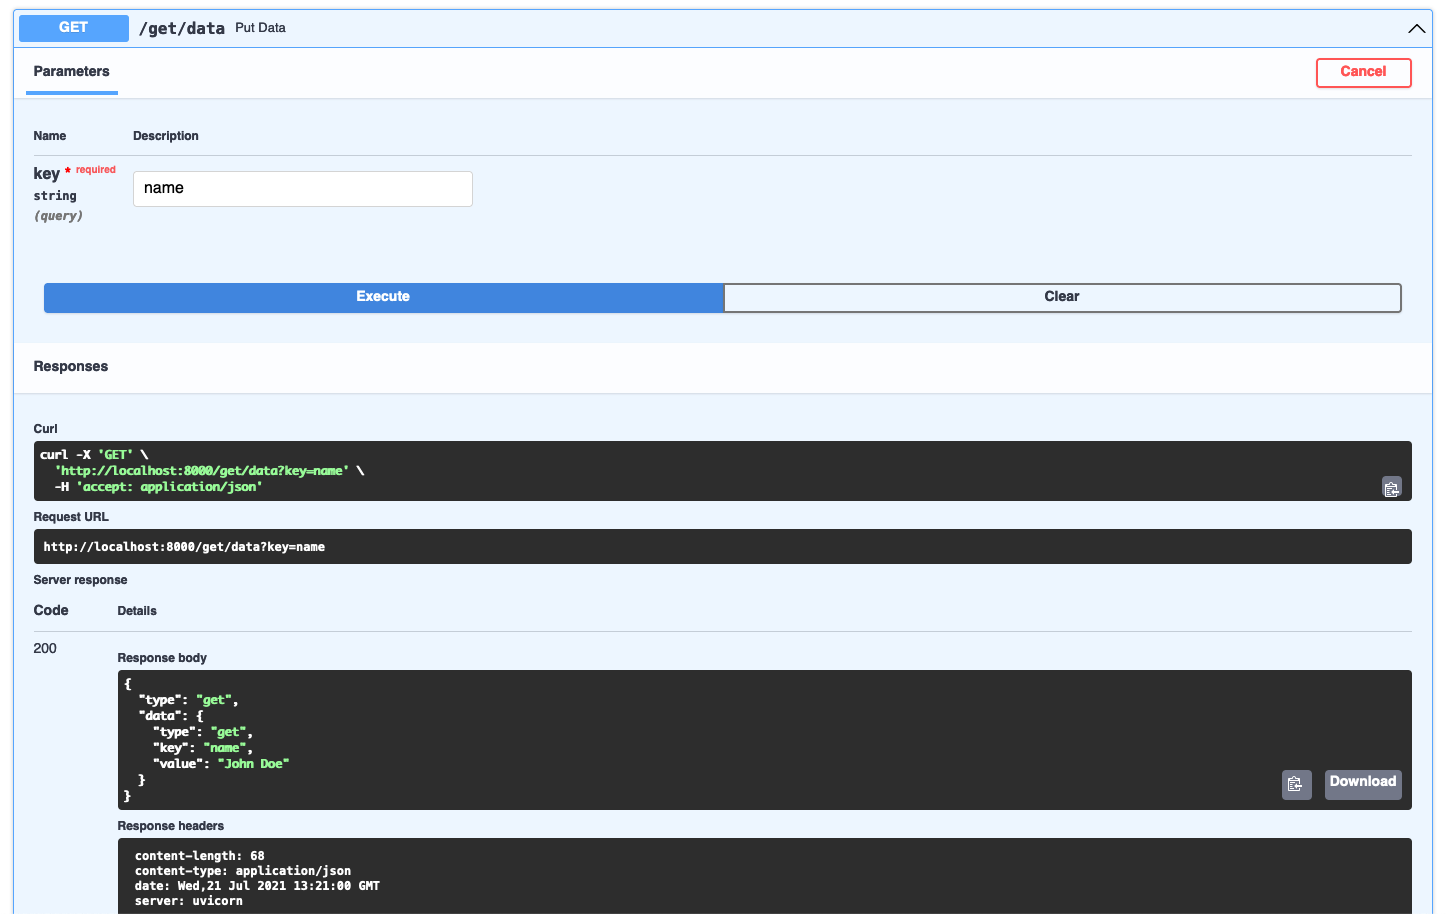
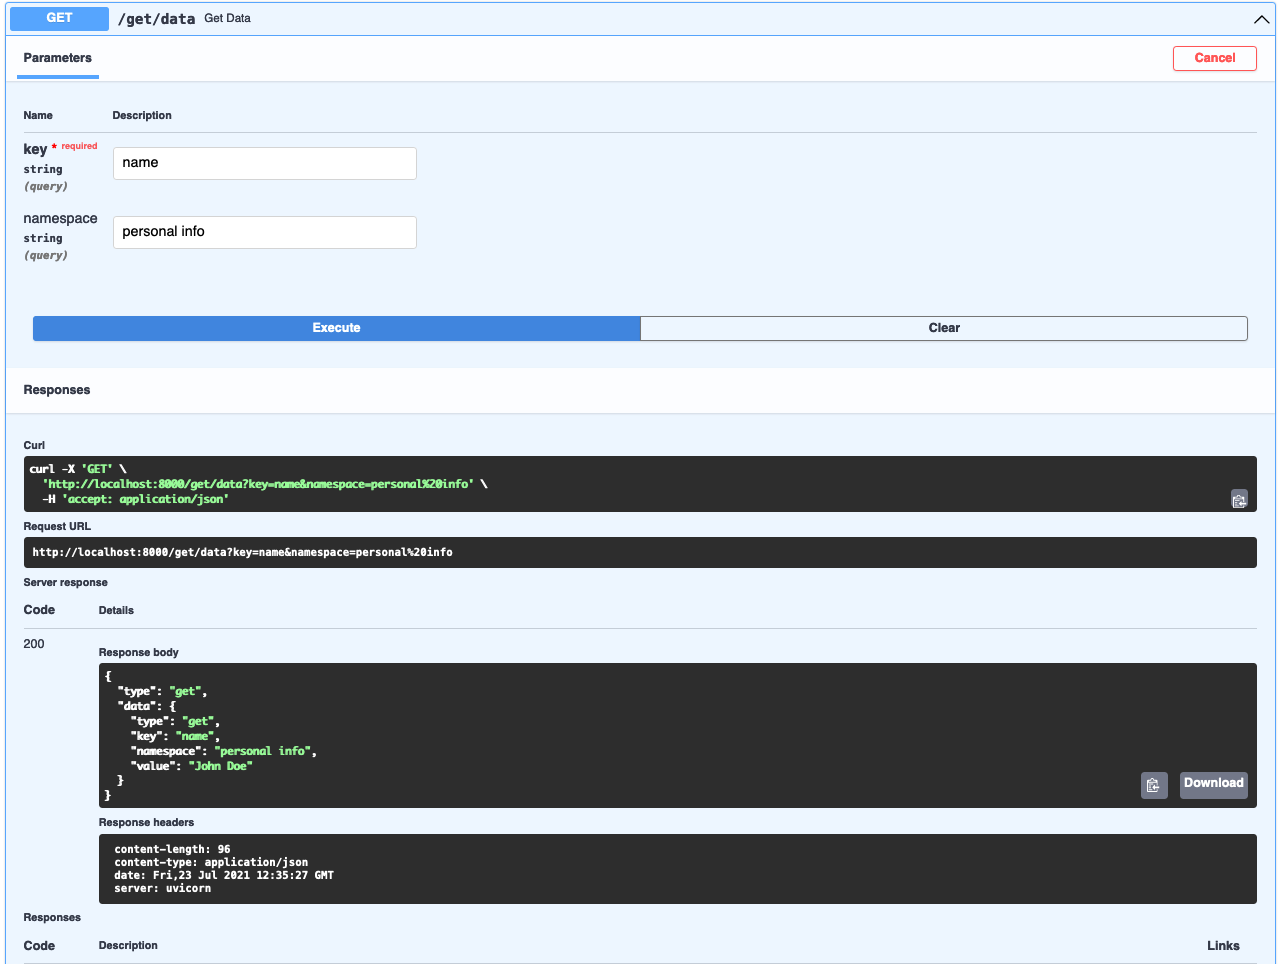
namespace added to raftnode

Changed region(s): [[0.0, 0.3063, 0.9992, 1.0], [0.0, 0.0, 0.9992, 0.2757], [0.0, 0.7046, 0.0312, 0.7352]]

diff --git a/raftnode/store.py b/raftnode/store.py
@@ -7,11 +7,11 @@ from raftnode.datastore.memory import MemoryStore
 
 class Store:
 
-    def __init__(self, store_type: str = 'memory', database: str = 'default.db', data_dir: str = 'data'):
+    def __init__(self, store_type: str = 'memory', data_dir: str = 'data'):
         self.commit_id = 0
         self.log = list()
         self.staged = None
-        self.db = self.__get_database(store_type, database=database, data_dir=data_dir)
+        self.db = self.__get_database(store_type, data_dir=data_dir)
         self.__lock = Lock()
         self.__data_dir = getenv('DATA_DIR', './data')
         self.__log_file = getenv('LOG_FILENAME', 'append.log')
@@ -28,7 +28,7 @@ class Store:
             from raftnode.datastore.rocks import RockStore
             database = kwargs.get('database', None)
             data_dir = kwargs.get('data_dir', None)
-            db = RockStore(database=database, data_dir=data_dir)
+            db = RockStore(data_dir=data_dir)
         else:
             db = MemoryStore()
         return db
@@ -45,9 +45,10 @@ class Store:
         if action == 'log':
             self.staged = payload
         elif action == 'commit':
+            namespace = payload.get('namespace', 'default')
             if not self.staged:
                 self.staged = payload
-            self.commit()
+            self.commit(namespace)
         return
 
     def put(self, term: int, payload: dict, transport, majority: int) -> bool:
@@ -69,6 +70,7 @@ class Store:
         :param majority: how many nodes constitute the majority
         :type majority: int
         '''
+        namespace = payload.get('namespace', 'default')
         with self.__lock:
             self.staged = payload
             waited = 0
@@ -84,8 +86,8 @@ class Store:
                 log_message, transport, log_confirmations,)).start()
 
             while sum(log_confirmations) + 1 < majority:
-                waited += 0.0005
-                time.sleep(0.0005)
+                waited += 0.05
+                time.sleep(0.05)
                 if waited > cfg.MAX_LOG_WAIT / 1000:
                     logger.info(
                         f"waited {cfg.MAX_LOG_WAIT} ms, update rejected:")
@@ -98,7 +100,7 @@ class Store:
                 "action": "commit",
                 "commit_id": self.commit_id
             }
-        self.commit()
+        self.commit(namespace)
         Thread(target=self.send_data,
                args=(commit_message, transport,)).start()
         logger.info(
@@ -133,12 +135,13 @@ class Store:
                         data needs to be retrieved from the database
         :type payload: dict 
         '''
+        namespace = payload.get('namespace', 'default')
         key = payload["key"]
-        value = self.db.get(key=key)
+        value = self.db.get(key=key, namespace=namespace)
         payload.update({'value': value})
         return payload
 
-    def commit(self):
+    def commit(self, namespace: str):
         '''
         commit the message to the database after getting
         atleast `majority + 1` conrfirmations from the 
@@ -150,4 +153,4 @@ class Store:
             key = self.staged['key']
             value = self.staged['value']
             self.staged = None
-            self.db.put(key, value)
+            self.db.put(key, value, namespace=namespace)

diff --git a/raftnode/datastore/rocks.py b/raftnode/datastore/rocks.py
@@ -12,10 +12,6 @@ class RockStore(IDatastore):
     A class that implements IDatastore. It enables storing the data
     into a database called rocksdb in (key, value) format
 
-    :param database: name of the database; database will be created
-                    if it doesn't exist, default=defaiult.db
-    :type database: str
-
     :param data_dir: directory where the database files will be stored,
                     default=./data
     :type data_dir: dict
@@ -23,21 +19,24 @@ class RockStore(IDatastore):
     :param config: rocksdb specific configurations
     :type config: dict
     '''
-    def __init__(self, database: str = 'default.db', data_dir: str = 'data', config: dict = None):
+    def __init__(self, data_dir: str = 'data', config: dict = None):
         if not config:
             config = dict()
         self.__data_dir = getenv('DATA_DIR', path.join('.', data_dir))
         self.__check_data_dir()
         self.__config = rocksdb.Options()
         self.__set_config(config=config)
-        self.__database = path.join(self.data_dir, database)
 
     @property
     def database(self):
         '''
         rocksdb database name
         '''
-        return self.__database
+        return self.__namespace
+
+    @database.setter
+    def database(self, namespace: str):
+        self.__namespace = path.join(self.data_dir, namespace)
 
     @property
     def data_dir(self):
@@ -81,7 +80,7 @@ class RockStore(IDatastore):
         db = rocksdb.DB(self.database, self.__config)
         return db
 
-    def put(self, key: str, value):
+    def put(self, key: str, value, namespace: str):
         '''
         insert values into rocksdb database
 
@@ -91,9 +90,13 @@ class RockStore(IDatastore):
         :param value: value to be inserted into
                     the database
         :type value: any
+
+        :param namespace: namespace to which the key belongs
+        :type namespace: str
         '''
         db = None
         try:
+            self.database = namespace
             db = self.connect()
             key, value = self.__bytes_encode(key), self.__bytes_encode(value)
             db.put(key, value)
@@ -102,7 +105,7 @@ class RockStore(IDatastore):
         finally:
             db = None
 
-    def get(self, key: str) -> dict:
+    def get(self, key: str, namespace: str) -> dict:
         '''
         retrieve data from database and return it 
         to the client
@@ -111,11 +114,17 @@ class RockStore(IDatastore):
                     the database
         :type key: str
 
+        :param namespace: namespace to which the key belongs
+        :type namespace: str
+
         :returns: data from the database in dictionary format
         :rtype: dict 
         '''
         db = None
         try:
+            self.database = namespace
+            if not path.exists(self.database):
+                return None
             db = self.connect()
             key = self.__bytes_encode(key)
             value = db.get(key)

diff --git a/raftnode/cli.py b/raftnode/cli.py
@@ -12,8 +12,6 @@ def main():
     parser.add_argument('-s', '--store', help=str(render_help('this option specifies the data storage layer; memory is the default') + '\n' + str(render_examples('DEFAULT: memory')) + '\n' + str(render_examples('EXAMPLE: --store memory'))),
                         choices=('memory', 'database'), default='memory')
     parser.add_argument(
-        '-d', '--database', help=str(render_help('the database\'s name; the data will be kept in this database; Only if -—store is database will this option work.')) + '\n' + str(render_examples('DEFAULT: default.db')) + '\n' + str(render_examples('EXAMPLE: --database default.db')), default='default.db')
-    parser.add_argument(
         '--ip', help=str(render_help("IP address of this machine;")) + '\n' + str(render_examples("FORMAT: IP:PORT")) + '\n' + str(render_examples("EXAMPLE: 192.168.0.101:5000")), required=True)
     parser.add_argument(
         '--peers', help=str(render_help('comma separated IP addresses of other nodes in the cluster')) + '\n' + str(render_examples('FORMAT: IP1:PORT1,IP3:PORT3...,IPn:PORTn')) + '\n' + str(render_examples('EXAMPLE: --peers 192.168.0.101:5000,192.168.0.102:5000,192.168.0.103:5000')), default=None)
@@ -28,7 +26,7 @@ def main():
     else:
         peers = list()
 
-    node = Node(my_ip=args.ip, peers=peers, timeout=args.timeout, store_type=args.store, database=args.database, data_dir=args.volume)
+    node = Node(my_ip=args.ip, peers=peers, timeout=args.timeout, store_type=args.store, data_dir=args.volume)
     node.run()
 
 

diff --git a/raftnode/datastore/memory.py b/raftnode/datastore/memory.py
@@ -18,7 +18,7 @@ class MemoryStore(IDatastore):
         '''
         return self.__db
 
-    def put(self, key: str, value):
+    def put(self, key: str, value, **kwargs):
         '''
         insert values into the in-memory datastore
 
@@ -35,7 +35,7 @@ class MemoryStore(IDatastore):
         except Exception as e:
             raise e
 
-    def get(self, key: str) -> dict:
+    def get(self, key: str, **kwargs) -> dict:
         '''
         fetch data form the in-memory datastore
 

diff --git a/raftnode/raftnode.py b/raftnode/raftnode.py
@@ -24,7 +24,7 @@ class RaftNode(Transport):
         logger.info('adding peers')
         self.start_adding_peers(peers=self.__peers)
         logger.info('initializing timeout')
-        self.start_timeout()
+        # self.start_timeout()
 
     def start_transport(self):
         '''

diff --git a/raftnode/election.py b/raftnode/election.py
@@ -14,7 +14,7 @@ class Election:
         self.vote_count = 0
         self.store = store
         self.__transport = transport
-        # self.init_timeout()
+        self.init_timeout()
 
     def start_election(self):
         '''

diff --git a/raftnode/config.py b/raftnode/config.py
@@ -4,7 +4,7 @@ LEADER = 0
 CANDIDATE = 1
 FOLLOWER = 2
 LOW_TIMEOUT = 100
-HIGH_TIMEOUT = 1000
+HIGH_TIMEOUT = 1500
 
 REQUESTS_TIMEOUT = 50
 HB_TIME = 50

diff --git a/docs/usage.rst b/docs/usage.rst
@@ -17,6 +17,25 @@ Start the RAFT cluster
 
         raftnode --ip <MY_IP:MY_PORT> --peers <PEER1:PORT1>,<PEER2:PORT2>,...,<PEERn:PORTn> --store database --database <DATABASE_NAME> --volume <DIRECTORY TO STORE THE DATABASE>
 
+
+Namespaces
+----------
+
+You can create multiple namespaces, each containing a distinct set of configurations. 
+In a microservices architecture, for example, we can have two namespaces: one for storing information about each microservice, 
+such as its IP and PORT, and another for storing database credentials for databases used by the services.
+
+Creating namespaces in raftnode cluster is simple. `{'type': 'put', 'key': <YOUR_KEY>, 'value': <YOUR_VALUE>'}` is the general message format for putting data into the raftnode. 
+The message format for creating a new namespace is `{'type':'put', 'key': <YOUR_KEY>, 'value': <YOUR_VALUE>, 'namespace': NAMESPACE NAME>}`. 
+The namespace will be created on the fly if it does not already exist!
+
+If no namespace is specified, the `default` namespace will be used.
+
+In the following section, you'll find an example of how to create a namespace, add data to it, and retrieve data from it.
+
+Client Implementation example
+-----------------------------
+
 *raftnode* enables you to write your own client. It uses simple internet sockets to interact with the node. The IP and PORT on which we start the node is the address where each node is listening.
 As long as your client supports sockets, you're good to go! Here is an example of client implementation using python fastAPI:
 
@@ -35,6 +54,7 @@ Let's install FastAPI and uvicorn first
     import uvicorn
     import sys
     from json import loads, dumps
+    from typing import Optional
 
     app = FastAPI()
     try:
@@ -45,8 +65,8 @@ Let's install FastAPI and uvicorn first
         raise Exception('Please pass name of atleast 1 server')
 
     @app.put('/put/data')
-    async def put_data(key: str, value: str):
-        message = {'type': 'put', 'key': key, 'value': value}
+    async def put_data(key: str, value: str, namespace: Optional[str] = 'default'):
+        message = {'type': 'put', 'key': key, 'value': value, 'namespace': namespace}
         s = socket(AF_INET, SOCK_STREAM)
         s.connect((host, port))
         s.send(encode_json(message))
@@ -58,8 +78,8 @@ Let's install FastAPI and uvicorn first
         return response
 
     @app.get('/get/data')
-    async def put_data(key: str):
-        message = {'type': 'get', 'key': key}
+    async def get_data(key: str, namespace: Optional[str] = 'default'):
+        message = {'type': 'get', 'key': key, 'namespace': namespace}
         s = socket(AF_INET, SOCK_STREAM)
         s.connect((host, port))
         s.send(encode_json(message))
